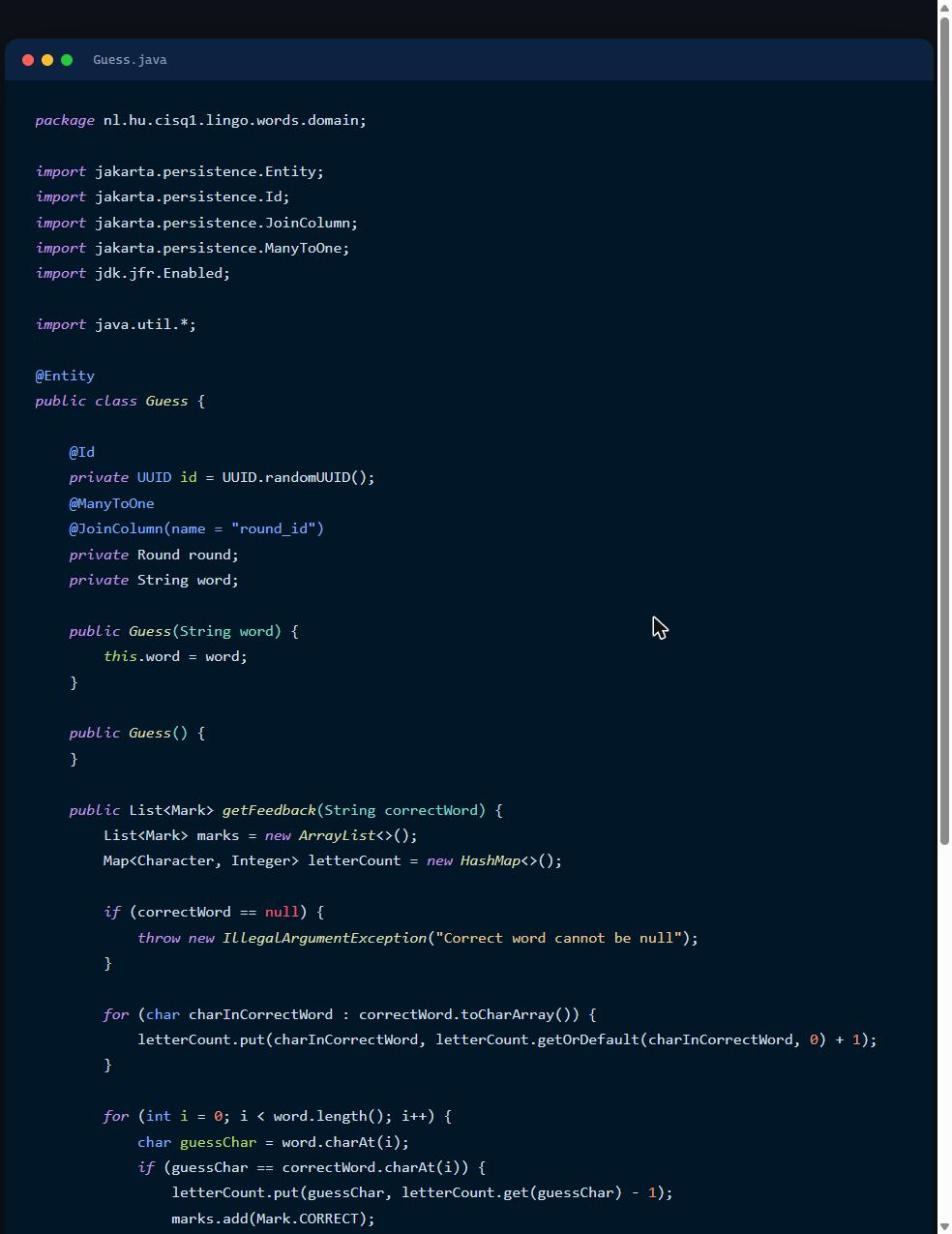
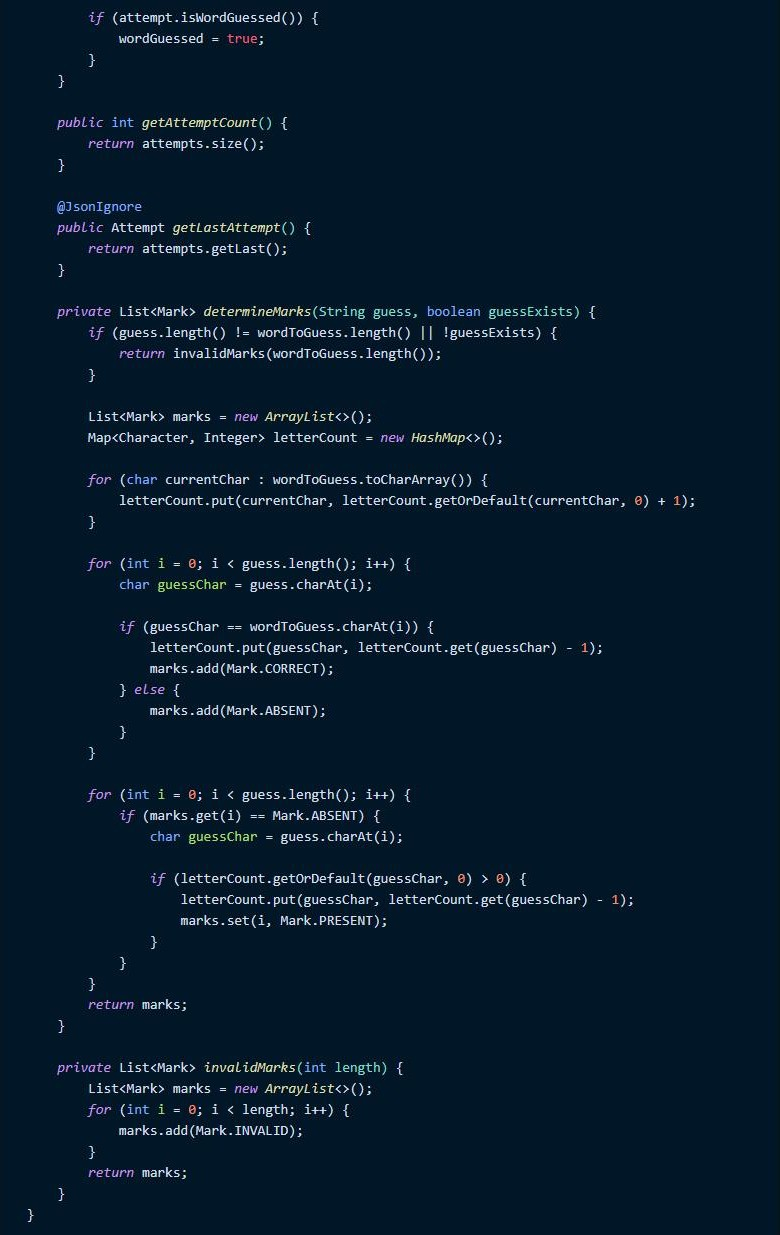
Correct Lingo Trainer: it was showing the wrong (stale) repo entirely
The code/output screenshots and description had been built from
cisq1-lingo-sdu2-Anthony-student, an older cohort's copy. The real,
current repo is cisq1-lingo-duaal-Anthony-student (2026 duaal-track
cohort) and is meaningfully more advanced: a real Game/Round/Attempt/
Hint state machine with a five-attempt loss condition and a proper
scoring formula, not a bare Guess entity.

- Code screenshot now shows the real Round.determineMarks/invalidMarks
  (same hash-map algorithm, now inside the real class).
- Added a real CI screenshot: 12 actual GitHub Actions runs, including
  early failures while the workflow was being debugged and a genuine
  test failure later fixed — a more honest story than a single green
  check.
- Replaced the output screenshot: running the real app live surfaced an
  actual bug (guesses are upper-cased before an exact-match dictionary
  lookup against lower-cased stored words, so no guess can currently
  register as valid), confirmed via direct DB inspection. Rather than
  work around it, the screenshot shows the real resulting loss, and the
  description discloses the bug explicitly, consistent with how this
  portfolio already treats real bugs elsewhere (Dali, Telumera).
- Rewrote the description to match the real architecture and history.

Claude-Session: https://claude.ai/code/session_017oXrvQP6snvN8MbE7byy91

diff --git a/src/assets/data/projectsData.ts b/src/assets/data/projectsData.ts
@@ -27,6 +27,7 @@ import kayaC4Component from "@/assets/image/project-kaya-c4-component.png";
 import kayaDomainModel from "@/assets/image/project-kaya-domain-model.png";
 import lingoGuess from "@/assets/image/project-lingo-guess.jpg";
 import lingoOutput from "@/assets/image/project-lingo-output.jpg";
+import lingoCi from "@/assets/image/project-lingo-ci.jpg";
 import hulandCasinoUseCase from "@/assets/image/project-huland-casino-usecase.png";
 import hulandCasinoPackages from "@/assets/image/project-huland-casino-packages.png";
 import hulandCasinoCode from "@/assets/image/project-huland-casino-code.jpg";
@@ -179,12 +180,12 @@ export const projectsData: Project[] = [
     slug: "lingo-trainer",
     title: "Lingo Trainer",
     shortDescription:
-      "A school assignment: a TDD-built Lingo word-guessing trainer, developed feature-first from Cucumber scenarios through to a tested Spring Boot API.",
+      "A school assignment: a TDD-built Lingo word-guessing trainer with a real Game/Round state machine, developed feature-first from Cucumber scenarios through to a tested, CI-driven Spring Boot API.",
     description:
-      "Lingo Trainer is a backend for the word-guessing game Lingo, built for HU's Continuous Integration and Software Quality 1 (CISQ1) course with a strict test-first workflow: it started from user stories and Cucumber feature scenarios, followed by a UML diagram derived directly from those scenarios, before any production code was written. The core Round/Guess domain logic handles the trickiest part of Lingo's rules honestly — repeated letters in a guess are tracked with a hash map so a correct letter can't be marked twice — with edge cases driven out through iterative JUnit tests rather than assumed upfront. A Spring Data JPA-backed word repository and a random-word REST endpoint sit on top, with GitHub Actions running the full test suite (including a Postgres-free CI profile) on every push.",
+      "Lingo Trainer is a backend for the word-guessing game Lingo, built for HU's Continuous Integration and Software Quality 1 (CISQ1) course with a strict test-first workflow: it started from user stories and Cucumber feature scenarios, followed by a UML diagram derived directly from those scenarios, before any production code was written. A Game aggregate manages a sequence of Rounds, each with its own five-attempt loss condition, a progressively-revealed hint, and the trickiest part of Lingo's rules handled honestly — repeated letters in a guess are tracked with a hash map so a correct letter can't be marked twice — with a real scoring formula rewarding fewer attempts. GitHub Actions runs the full JUnit suite (plus JaCoCo coverage) on every push, and its real run history is refreshingly unpolished: several early red runs while the workflow itself was being debugged, then a genuine test failure caught while hardening the marking logic, all fixed in later commits rather than force-pushed away. Running it live for this portfolio surfaced one more real bug worth disclosing rather than hiding: guesses are upper-cased before an exact-match dictionary lookup against lower-cased stored words, so no guess currently registers as valid — the screenshot below shows precisely that, a genuine loss after five attempts.",
     image: lingoGuess,
     tags: ["Java", "Spring Boot", "TDD", "Cucumber", "JUnit", "PostgreSQL", "GitHub Actions", "School Assignment"],
-    screenshots: [lingoGuess, lingoOutput],
+    screenshots: [lingoGuess, lingoCi, lingoOutput],
   },
   {
     slug: "huland-casino",
